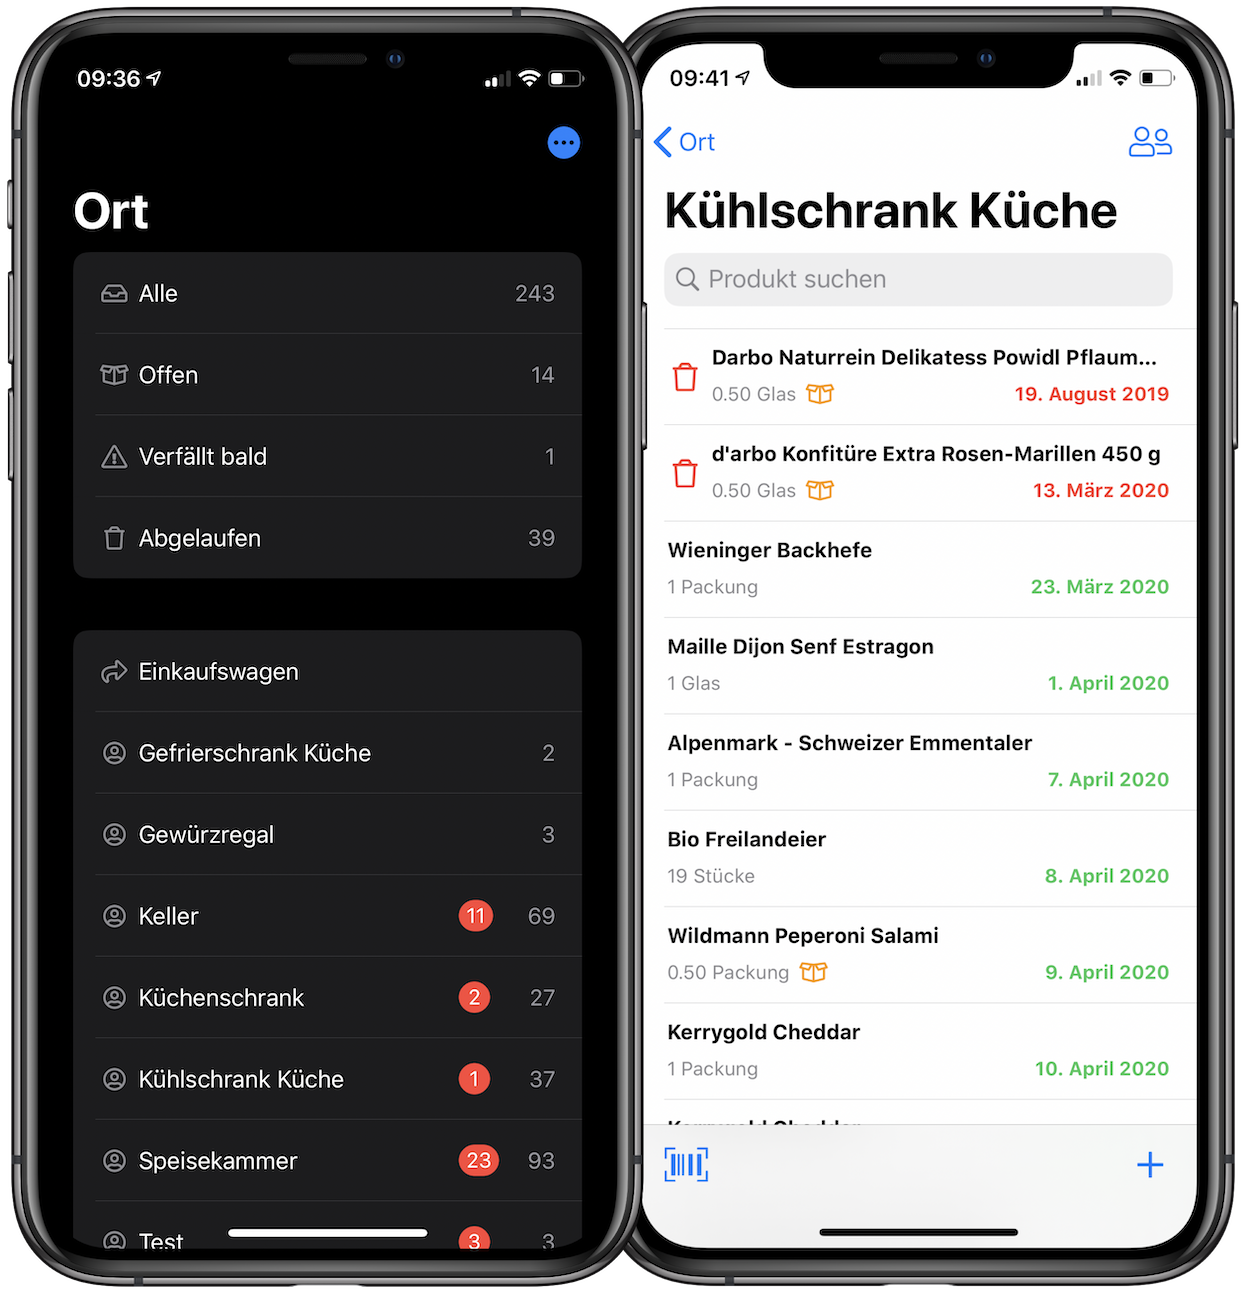
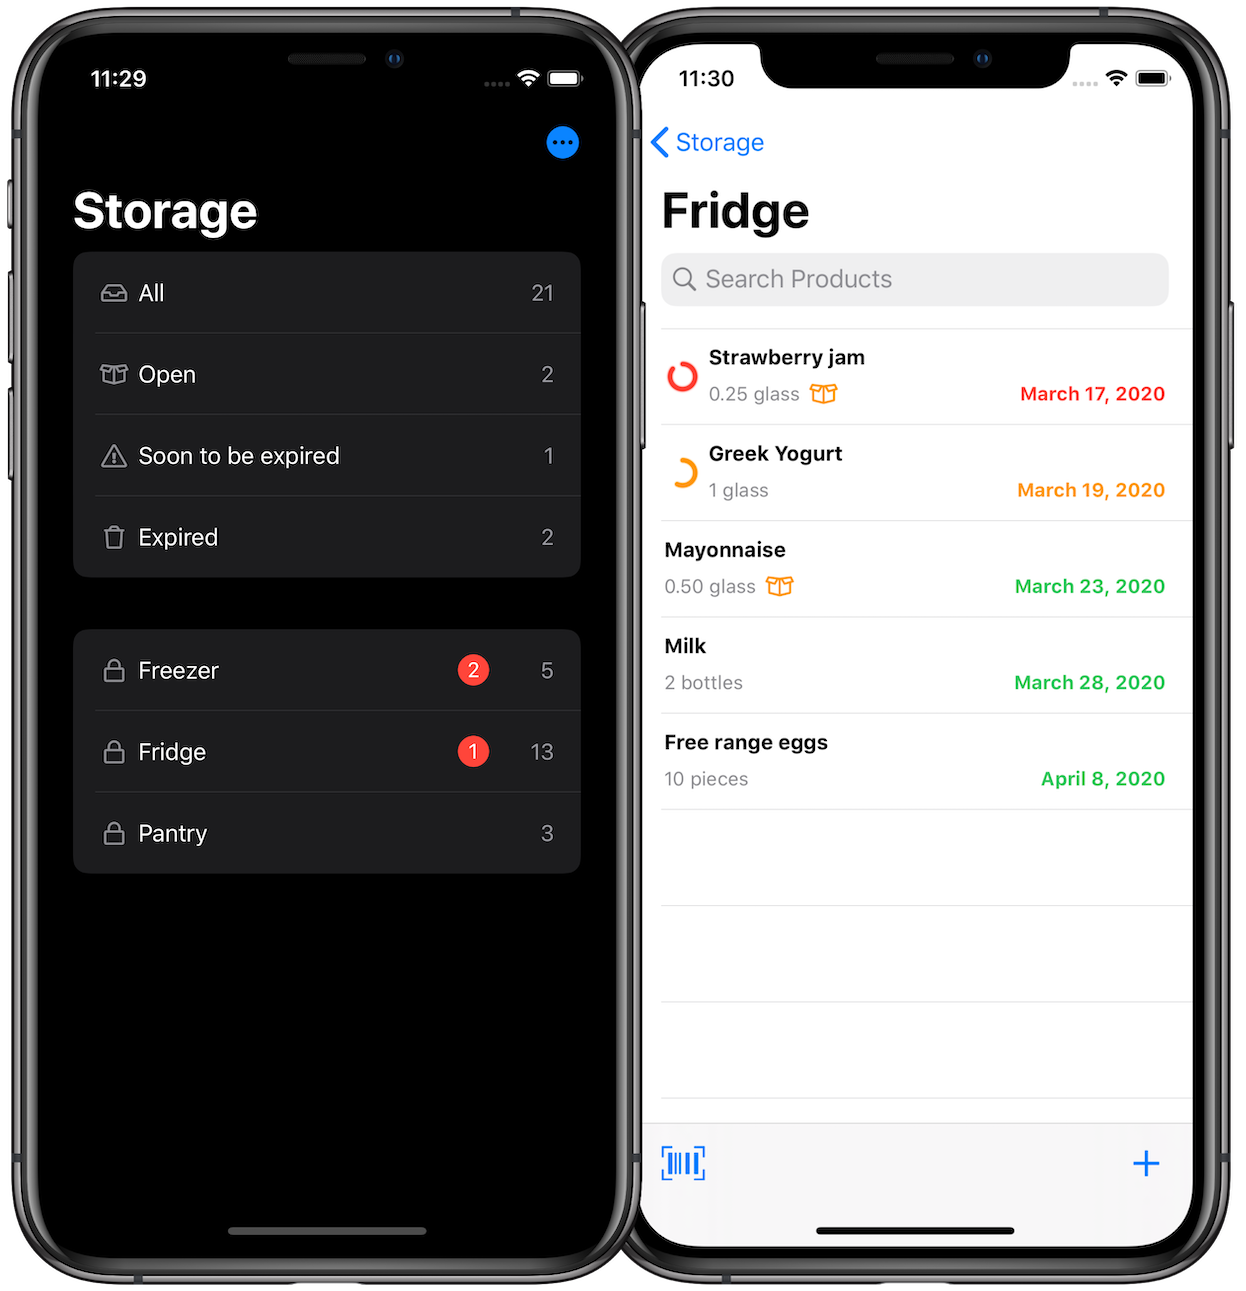
Update pictures to use generic products.

diff --git a/index.html b/index.html
@@ -58,6 +58,11 @@
           FoodShiner is a free app, to help you prevent food wastage and therefor to protect our Earth.
         </p>
       </div>
+      <div class="row">
+        <div class="twelve column">
+          <img class="pad" src="img/foodshiner_ipad_iphone.png">
+        </div>
+      </div>
     </div>
   </div>
 
